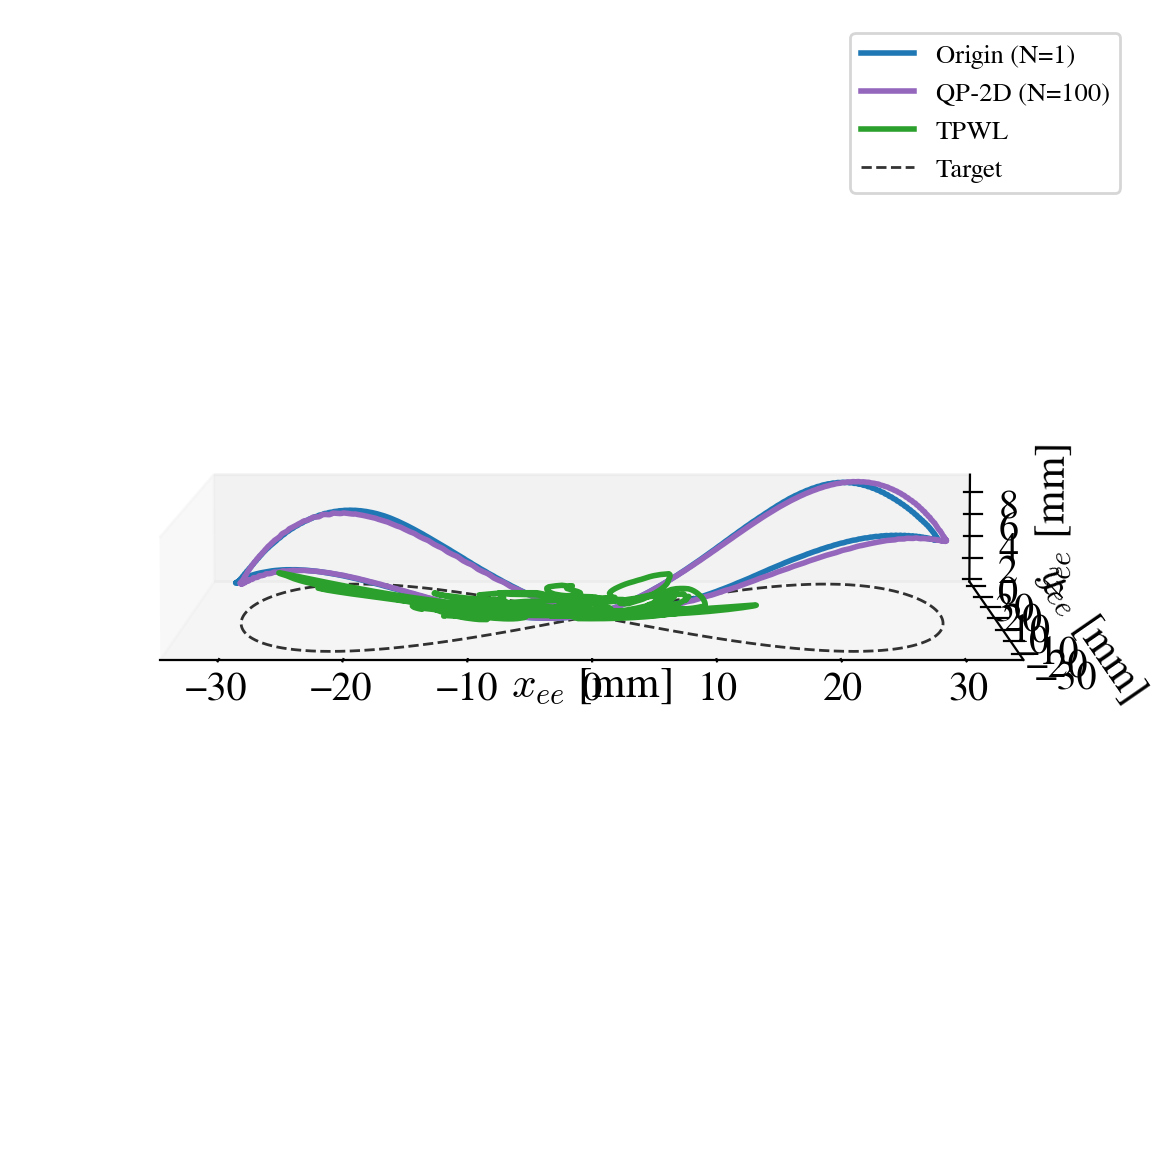
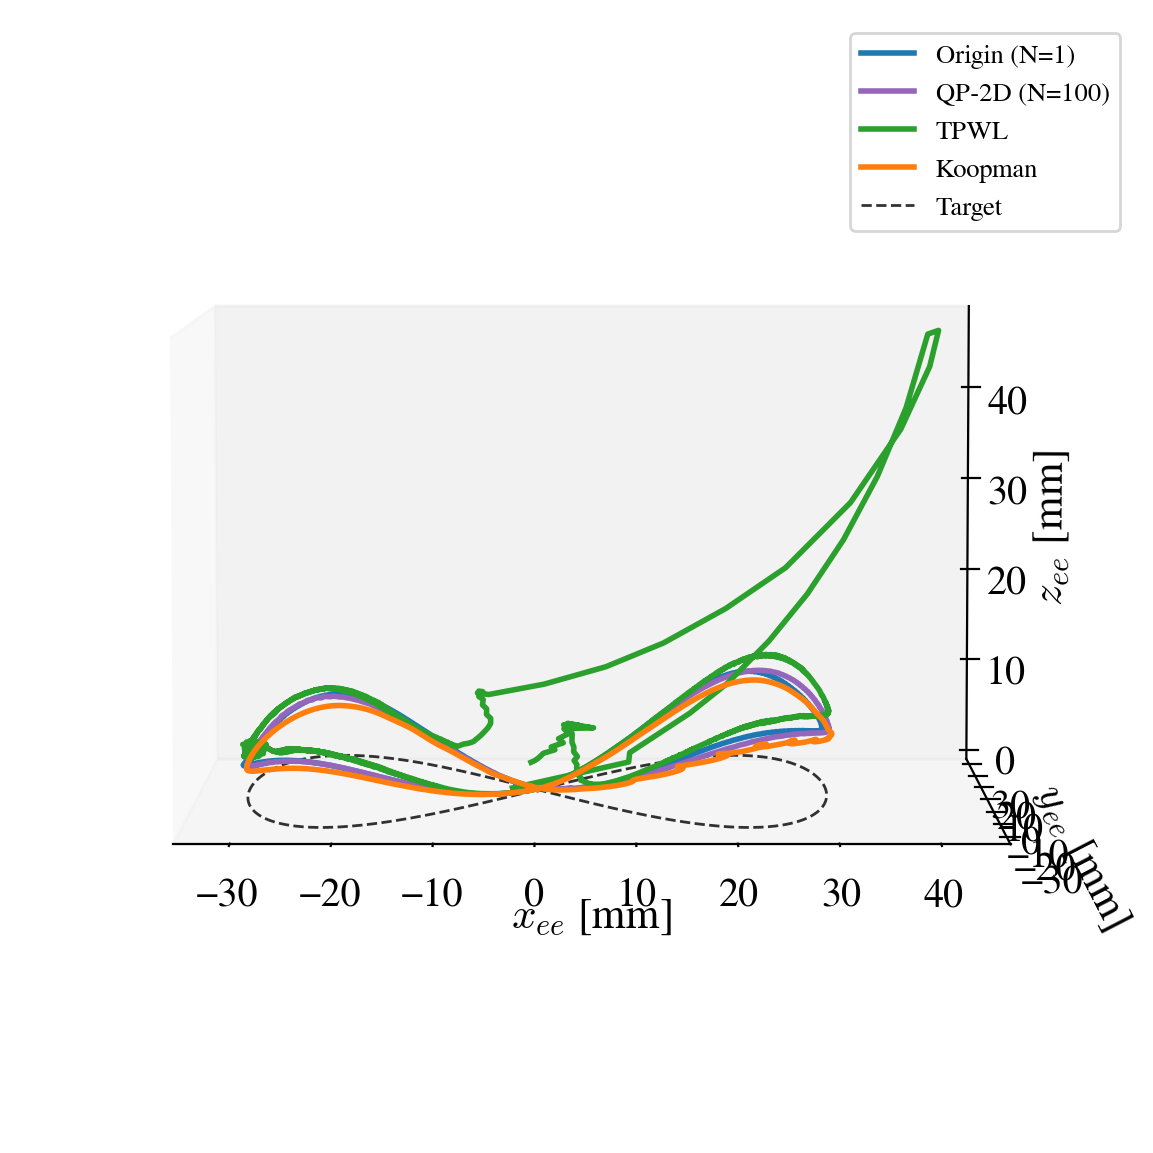
Fixed TPWL; both baselines ready

diff --git a/examples/trunk/trunk_tpwl.py b/examples/trunk/trunk_tpwl.py
@@ -12,11 +12,24 @@ sys.path.append(root)
 
 from examples import Problem
 from sofacontrol.open_loop_sequences import TrunkRobotSequences
+from sofacontrol.utils import load_data, qv2x
+from sofacontrol.measurement_models import linearModel
+
 
 # Default nodes are the "end effector (51)" and the "along trunk (22, 37) = (4th, 7th) top link "
 DEFAULT_OUTPUT_NODES = [51, 22, 37]
 TIP_NODE = 51
 N_NODES = 709
+
+# Load equilibrium point
+rest_file = join(path, 'rest_qv.pkl')
+rest_data = load_data(rest_file)
+q_equilibrium = np.array(rest_data['q'][0])
+
+# Setup equilibrium point (no time delay and observed position and velocity of tip)
+x_eq = qv2x(q=q_equilibrium, v=np.zeros_like(q_equilibrium))
+output_model = linearModel(nodes=[TIP_NODE], num_nodes=N_NODES)
+z_eq_point = output_model.evaluate(x_eq, qv=False)
 
 
 def collect_POD_data():
@@ -282,12 +295,12 @@ def run_scp():
     Qz = np.zeros((model.output_dim, model.output_dim))
     Qz[3, 3] = 100  # corresponding to x position of end effector
     Qz[4, 4] = 100  # corresponding to y position of end effector
-    Qz[5, 5] = 0  # corresponding to z position of end effector
+    Qz[5, 5] = 1000  # corresponding to z position of end effector
     cost.Q = model.H.T @ Qz @ model.H
     cost.R = .00001 * np.eye(model.input_dim)
 
     # Define controller (wait 2 seconds of simulation time to start)
-    prob.controller = scp(model, cost, dt, N_replan=2, observer=EKF, delay=1) # , feedback=False
+    prob.controller = scp(model, cost, dt, N_replan=30, observer=EKF, delay=1) # , feedback=False
 
     # Saving paths
     prob.opt['sim_duration'] = 11.
@@ -302,12 +315,9 @@ def run_gusto_solver():
     python3 trunk_tpwl.py run_gusto_solver
     """
     from sofacontrol.scp.models.tpwl import TPWLGuSTO
-    from sofacontrol.measurement_models import linearModel
     from sofacontrol.scp.ros import runGuSTOSolverNode
     from sofacontrol.tpwl import tpwl_config, tpwl
     from sofacontrol.utils import HyperRectangle, Polyhedron
-
-    output_model = linearModel(nodes=[TIP_NODE], num_nodes=N_NODES)
 
     # Load and configure the TPWL model from data saved
     tpwl_model_file = join(path, 'tpwl_model_snapshots.pkl')
@@ -316,27 +326,29 @@ def run_gusto_solver():
 
     # Define target trajectory for optimization
     # === figure8 (2D) ===
-    M = 1
-    T = 10
-    N = 1000
-    radius = 10.
-    t = np.linspace(0, M * T, M * N)
-    th = np.linspace(0, M * 2 * np.pi, M * N)
-    zf_target = np.zeros((M * N, model.output_dim))
-    zf_target[:, 3] = -radius * np.sin(th)
-    zf_target[:, 4] = radius * np.sin(2 * th)
-
-    # # === circle with constant z (3D) ===
     # M = 1
     # T = 10
     # N = 1000
-    # radius = 20.
+    # radius = 30.
     # t = np.linspace(0, M * T, M * N + 1)
-    # th = np.linspace(0, M * 2 * np.pi, M * N + 1) + np.pi / 2
-    # zf_target = np.zeros((M * N, model.output_dim))
-    # zf_target[:, 3] += radius * np.cos(th)
-    # zf_target[:, 4] += radius * np.sin(th)
-    # zf_target[:, 5] += -np.ones(len(tf)) * 15
+    # th = np.linspace(0, M * 2 * np.pi, M * N + 1)
+    # # zf_target = np.zeros((M * N, model.output_dim))
+    # zf_target = np.tile(np.hstack((z_eq_point, np.zeros(model.output_dim - len(z_eq_point)))), (M * N + 1, 1))
+    # zf_target[:, 3] += -radius * np.sin(th)
+    # zf_target[:, 4] += radius * np.sin(2 * th)
+
+    # # === circle with constant z (3D) ===
+    M = 1
+    T = 10
+    N = 1000
+    radius = 20.
+    t = np.linspace(0, M * T, M * N + 1)
+    th = np.linspace(0, M * 2 * np.pi, M * N + 1) # + np.pi / 2
+    # zf_target = np.zeros((M * N + 1, model.output_dim))
+    zf_target = np.tile(np.hstack((z_eq_point, np.zeros(model.output_dim - len(z_eq_point)))), (M * N + 1, 1))
+    zf_target[:, 3] += radius * np.cos(th)
+    zf_target[:, 4] += radius * np.sin(th)
+    zf_target[:, 5] += -np.ones(len(t)) * 10
 
     z = model.zfyf_to_zy(zf=zf_target)
 
@@ -344,7 +356,7 @@ def run_gusto_solver():
     Qz = np.zeros((model.output_dim, model.output_dim))
     Qz[3, 3] = 100  # corresponding to x position of end effector
     Qz[4, 4] = 100  # corresponding to y position of end effector
-    Qz[5, 5] = 0  # corresponding to z position of end effector
+    Qz[5, 5] = 1000  # corresponding to z position of end effector
     
     dt = 0.1
     N = 5
@@ -360,14 +372,13 @@ def run_gusto_solver():
 
     # Define initial condition to be x_ref for initial solve
     x0 = model.rom.compute_RO_state(xf=model.rom.x_ref)
-    print(x0.shape)
 
     # Define GuSTO model
     gusto_model = TPWLGuSTO(model)
     gusto_model.pre_discretize(dt)
 
     runGuSTOSolverNode(gusto_model, N, dt, Qz, R, x0, t=t, z=z, U=U, X=X,
-                       verbose=2, warm_start=True, convg_thresh=0.001, solver='GUROBI')
+                       verbose=1, warm_start=True, convg_thresh=0.001, solver='GUROBI')
 
 if __name__ == '__main__':
     if len(sys.argv) <= 1:

diff --git a/sofacontrol/tpwl/tpwl.py b/sofacontrol/tpwl/tpwl.py
@@ -26,7 +26,6 @@ class TPWL:
             self.tpwl_dict = scutils.load_data(data)
         self.num_points = len(self.tpwl_dict['q'])
 
-        print(self.tpwl_dict.keys())
         # Build ROM object in case it is needed
         if self.tpwl_dict['rom_info']['type'] == 'POD':
             self.rom = pod.POD(self.tpwl_dict['rom_info'])
@@ -35,12 +34,9 @@ class TPWL:
 
         # Get state and input dimensions
         try:
-            print(self.tpwl_dict['q'][0].shape)
             self.state_dim = (self.tpwl_dict['q'][0].shape[-1] * 2) if self.tpwl_dict is not None else None
             self.input_dim = self.tpwl_dict['u'][0].shape[-1] if self.tpwl_dict is not None else None
-            print("TPWL state dim:", self.state_dim)
-            print("TPWL input dim:", self.input_dim)
-            print("TPWL num points", self.num_points)
+            print("TPWL num linearization points", self.num_points)
 
         except IndexError:
             self.state_dim = (self.tpwl_dict['q'].shape[-1] * 2) if self.tpwl_dict is not None else None

diff --git a/problem_specification.py b/problem_specification.py
@@ -36,8 +36,8 @@
 # problem = diamond_koopman.run_koopman
 # problem = diamond_koopman.run_MPC_OL
 
-from examples.hardware import diamond_SSM
-problem = diamond_SSM.run_scp
+# from examples.hardware import diamond_SSM
+# problem = diamond_SSM.run_scp
 # problem = diamond_SSM.run_scp_OL
 # problem = diamond_SSM.module_test
 # problem = diamond_SSM.module_test_continuous
@@ -60,12 +60,12 @@ problem = diamond_SSM.run_scp
 # problem = trunk_SSM.run_scp
 
 # ADIABATIC SSM
-from examples.trunk import trunk_adiabaticSSM
-problem = trunk_adiabaticSSM.run_scp
+# from examples.trunk import trunk_adiabaticSSM
+# problem = trunk_adiabaticSSM.run_scp
 
 # TPWL
-# from examples.trunk import trunk_tpwl
-# # problem = trunk_tpwl.collect_POD_data
-# # problem = trunk_tpwl.collect_TPWL_data
-# problem = trunk_tpwl.run_scp
-# # problem = trunk_tpwl.run_ilqr
+from examples.trunk import trunk_tpwl
+# problem = trunk_tpwl.collect_POD_data
+# problem = trunk_tpwl.collect_TPWL_data
+problem = trunk_tpwl.run_scp
+# problem = trunk_tpwl.run_ilqr

diff --git a/plotting.py b/plotting.py
@@ -79,7 +79,7 @@ M, T, N, radius = (target_settings[key] for key in ['M', 'T', 'N', 'radius'])
 t_target = np.linspace(0, M*T, M*N+1)
 th = np.linspace(0, M*2*np.pi, M*N+1) # + np.pi/2
 z_target = np.zeros((M*N+1, len(Z_EQ)))
-if TARGET == "circle":
+if TARGET == "circle_z=-10":
     z_target[:, 0] += radius * np.cos(th)
     z_target[:, 1] += radius * np.sin(th)
     z_target[:, 2] += -np.ones(len(t_target)) * target_settings['z_const']
@@ -93,7 +93,7 @@ else:
 z_lb = target_settings['z_lb']
 z_ub = target_settings['z_ub']
 
-SAVE_DIR = join(path, SETTINGS['robot'], SETTINGS['save_dir'])
+SAVE_DIR = join(path, "examples", SETTINGS['robot'], SETTINGS['save_dir'])
 if not exists(SAVE_DIR):
     os.makedirs(SAVE_DIR)
 

diff --git a/sofacontrol/lqr/lqr.py b/sofacontrol/lqr/lqr.py
@@ -29,6 +29,7 @@ def dare(Ad, Bd, Q, R):
     gamma = 0.1
     P = scipy.linalg.solve_discrete_are(Ad, Bd, Q, R)
     K = -scipy.linalg.inv(Bd.T @ P @ Bd + R + gamma * np.eye(np.shape(R)[0])) @ (Bd.T @ P @ Ad)
+    K = -scipy.linalg.inv(Bd.T @ P @ Bd + R) @ (Bd.T @ P @ Ad)
     return K, P
 
 
